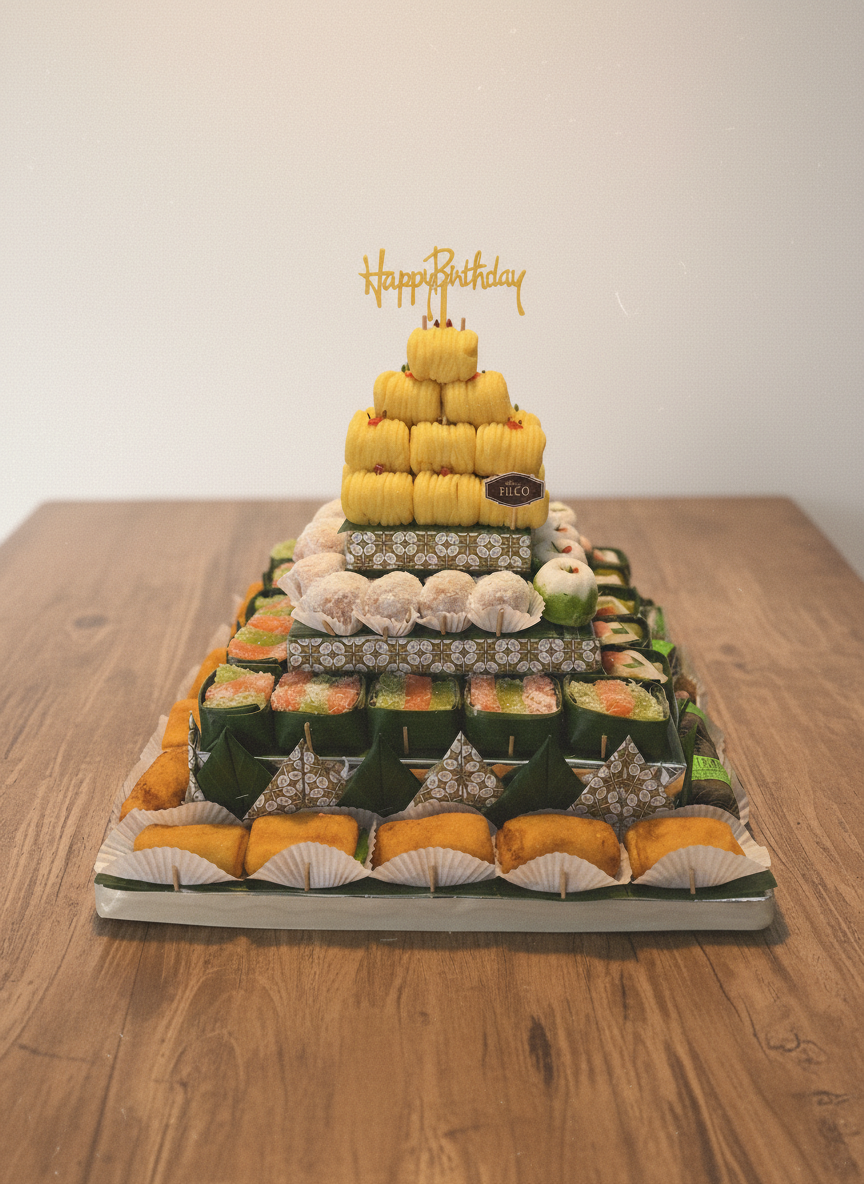
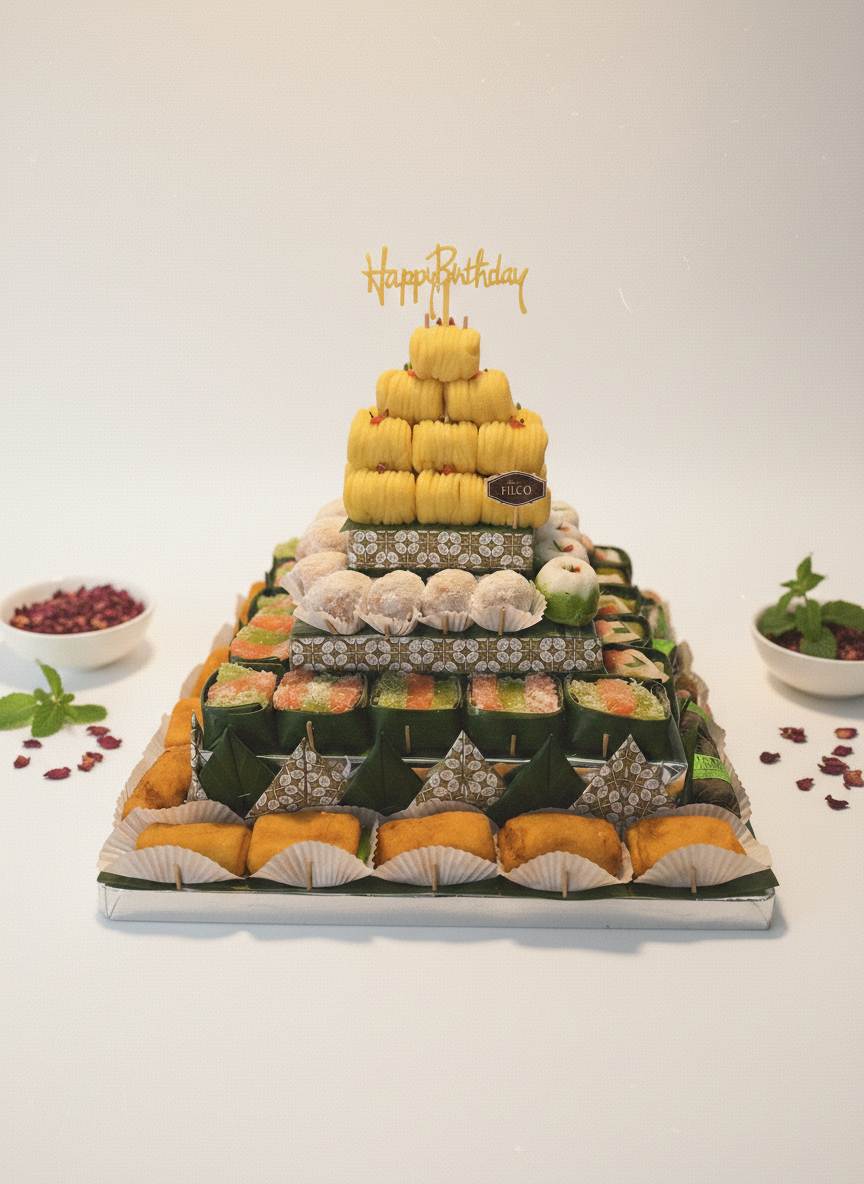
perbaiki gambar paket

diff --git a/paket.html b/paket.html
@@ -451,7 +451,7 @@
                     <li>Lemper</li>
                     <li>Gethuk</li>
                     <li>Kue Thok</li>
-                    <li>Lumpia</li>
+                    <li>Lumpia Sayur</li>
                 </ul>
                 <a href="https://wa.me/6282234618099?text=Halo Admin, saya ingin pesan Paket Mika Isi 4" class="btn-order-wa">Pesan via WhatsApp</a>
             </div>
@@ -553,7 +553,7 @@
     <div id="nampan" class="package-grid">
         <div class="pkg-card">
             <div class="pkg-img">
-                <img src="./gambar/paket/nampan/mini.jpeg" alt="Nampan">
+                <img src="./gambar/paket/nampan/mini AI 2.png" alt="Nampan">
             </div>
             <div class="pkg-content">
                 <h3>Paket Nampan Mini</h3>
@@ -573,7 +573,7 @@
 
         <div class="pkg-card">
             <div class="pkg-img">
-                <img src="./gambar/paket/nampan/kecil.jpeg" alt="Nampan">
+                <img src="./gambar/paket/nampan/kecil AI.png" alt="Nampan">
             </div>
             <div class="pkg-content">
                 <h3>Paket Nampan Kecil</h3>
@@ -593,7 +593,7 @@
 
         <div class="pkg-card">
             <div class="pkg-img">
-                <img src="./gambar/paket/nampan/sedang AI.png" alt="Nampan">
+                <img src="./gambar/paket/nampan/sedang AI 2.png" alt="Nampan">
             </div>
             <div class="pkg-content">
                 <h3>Paket Nampan Sedang</h3>
